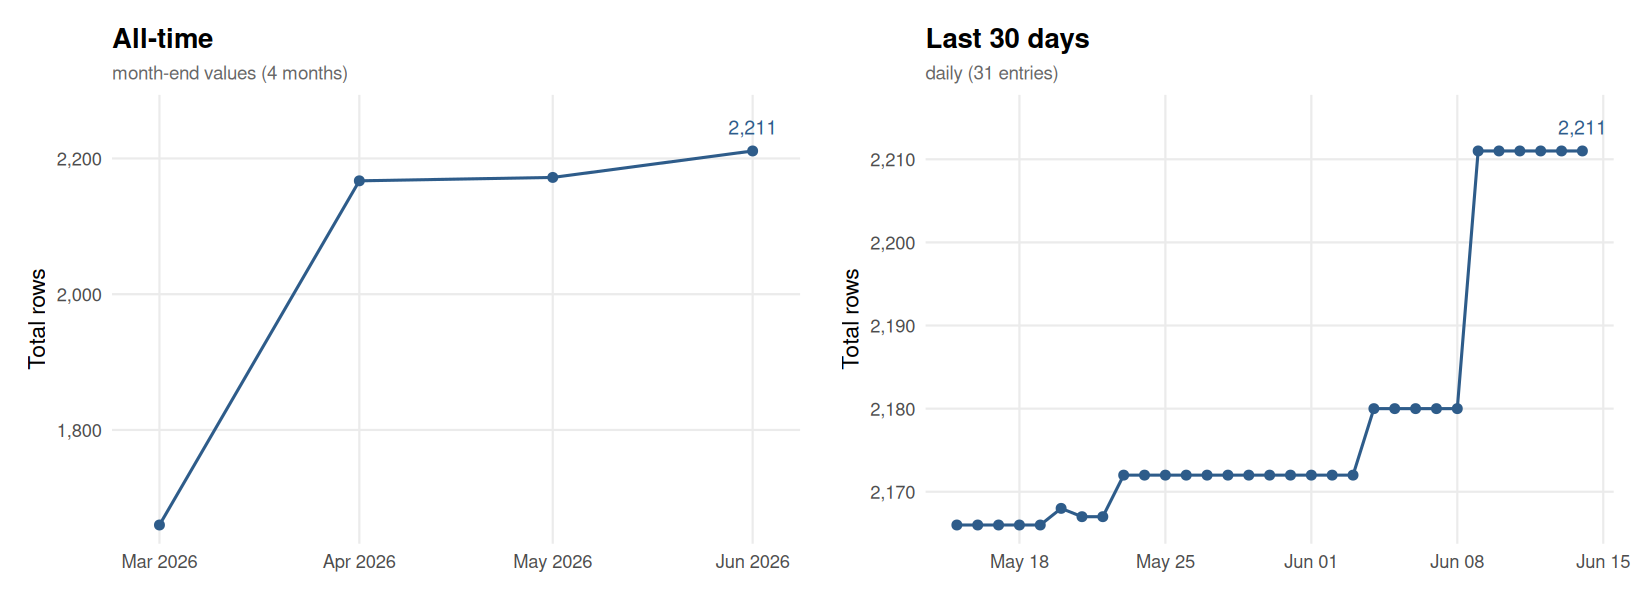
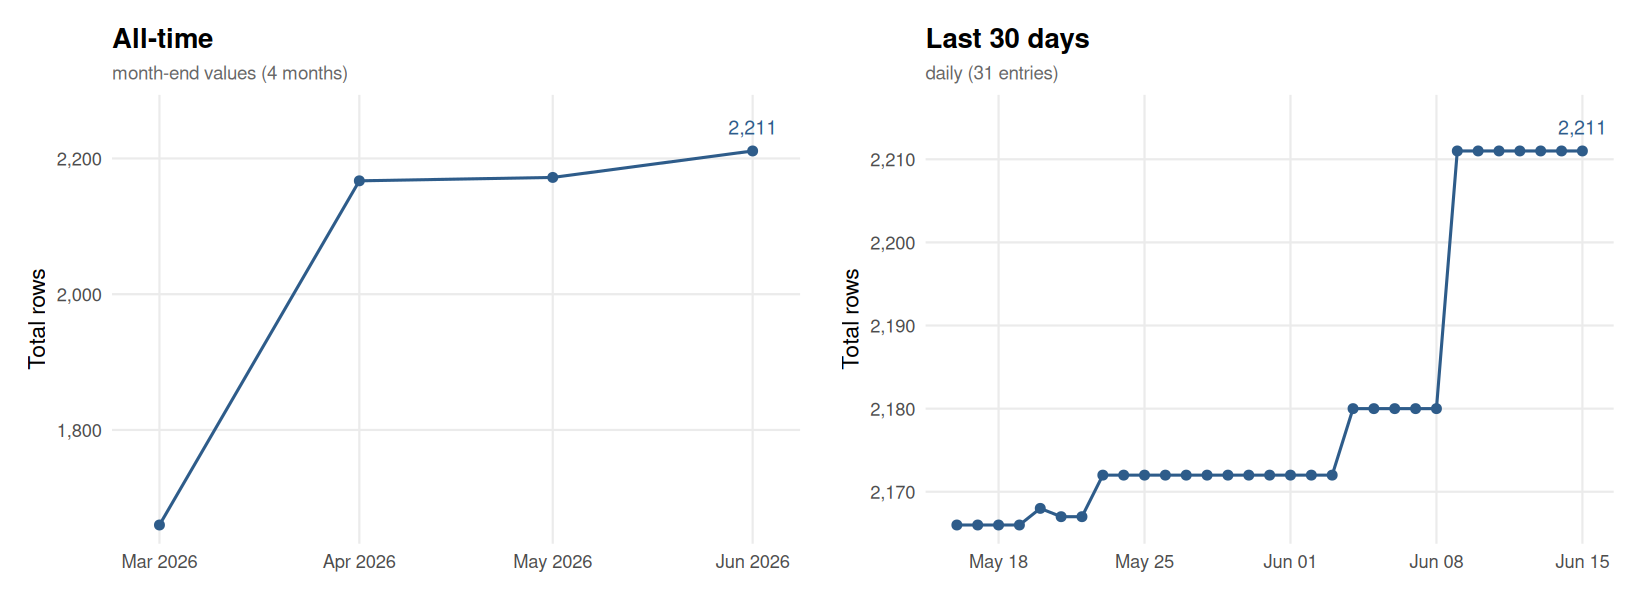
Update flora.csv [automated]

diff --git a/README.md b/README.md
@@ -438,14 +438,15 @@ For API issues:
 This chart is automatically updated after each pipeline run, showing the size of `output/flora.csv` over time.
 
 <!-- FLORA_UPDATE_LOG_START -->
-> **Latest (2026-06-14):** Total = 2,211 | Replications = 2,202 | Reproductions = 9
+> **Latest (2026-06-15):** Total = 2,211 | Replications = 2,202 | Reproductions = 9
 
 ![FLoRA dataset size over time](output/flora_history.png)
 
-<details><summary>Full history (87 entries)</summary>
+<details><summary>Full history (88 entries)</summary>
 
 | Date | Total | Replications | Reproductions |
 |------|------:|-------------:|--------------:|
+| 2026-06-15 | 2211 | 2202 | 9 |
 | 2026-06-14 | 2211 | 2202 | 9 |
 | 2026-06-13 | 2211 | 2202 | 9 |
 | 2026-06-12 | 2211 | 2202 | 9 |
